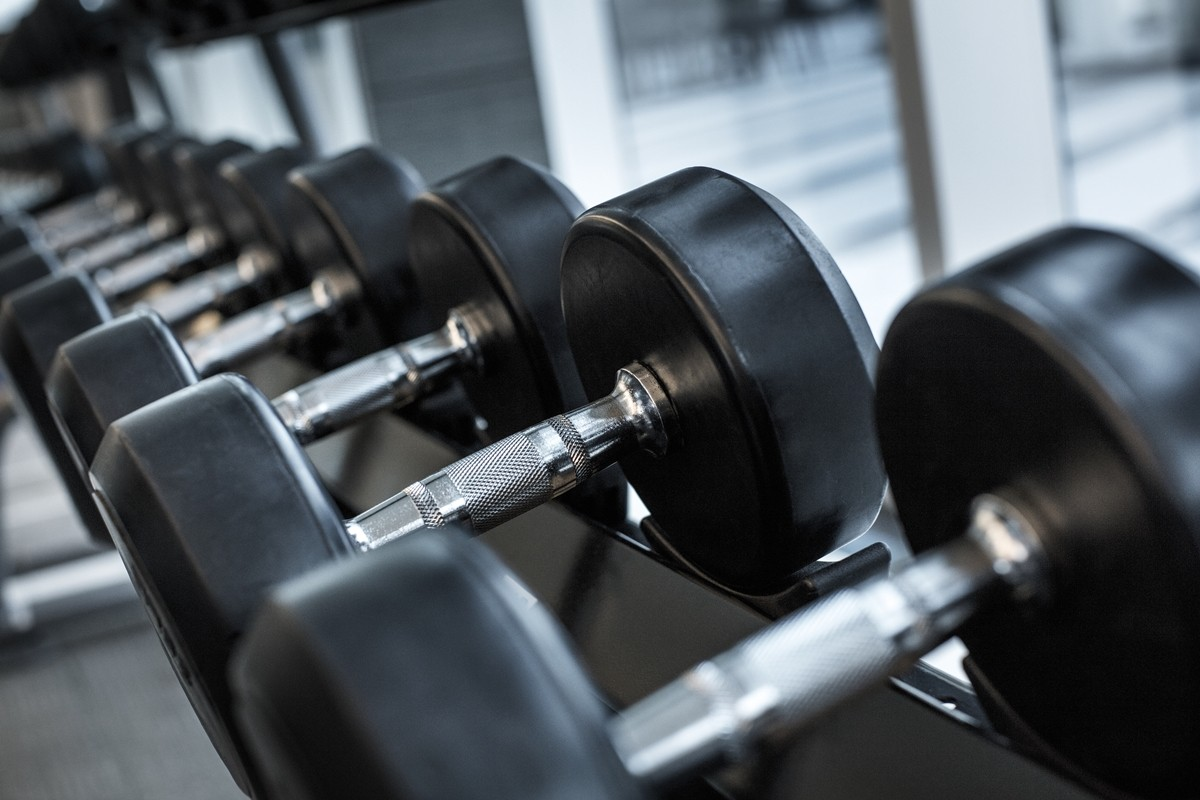
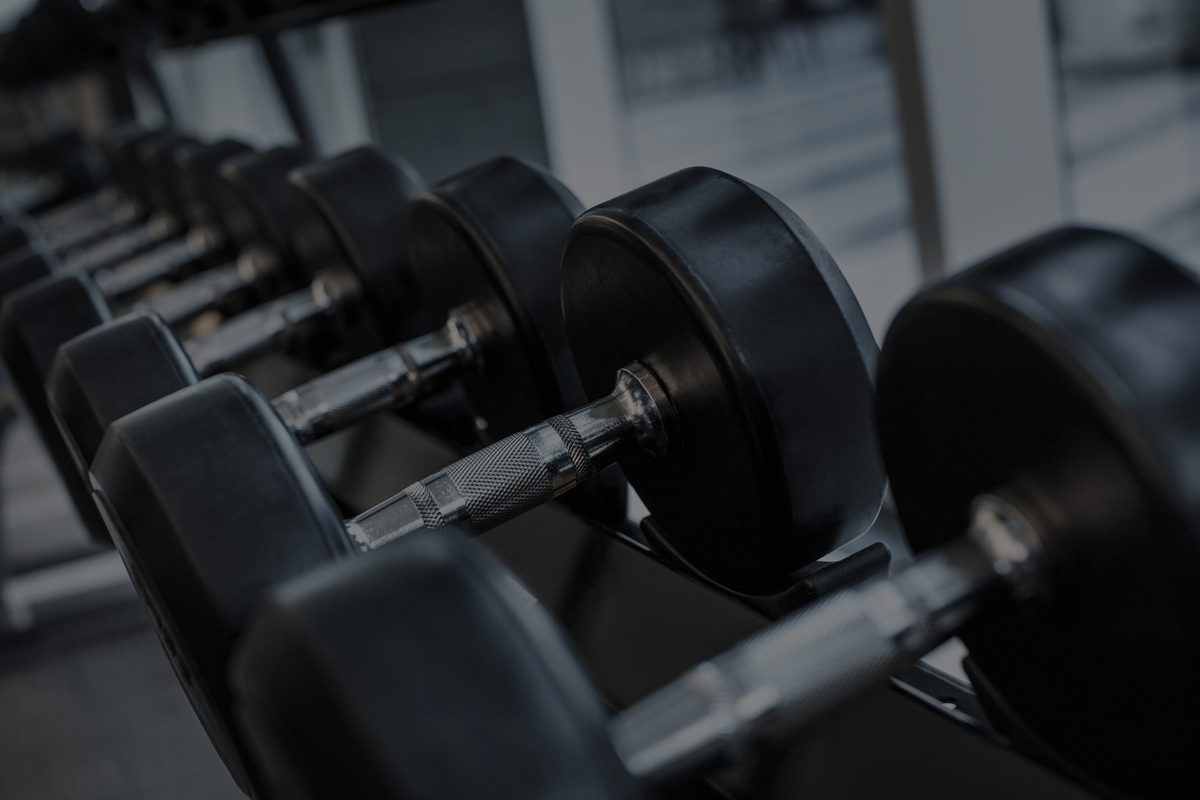
refactoring complete, styling complete

diff --git a/src/Components/Forms/Form.js b/src/Components/Forms/Form.js
@@ -1,5 +1,4 @@
 import React, { useState } from "react";
-import background from "./images/Gym2.png";
 import "./styling.css";
 
 import Stats from "./Stats";
@@ -63,146 +62,126 @@ const Form = () => {
   };
 
   return (
-    <div style={styles.header}>
-      <div style={styles.content}>
-        <div className="container mx-auto px-6 py-32 md:px-32 lg:px-32 xl:px-32">
-          {/* Header */}
-          <label
-            style={{ color: "hsl(0, 0%, 88%)" }}
-            className="font-display font-sans font-semibold text-5xl text-white mb-4"
-          >
-            TDEE Calculator
-          </label>
+    <div className="container mx-auto px-6 py-32 md:px-32 lg:px-32 xl:px-32">
+      {/* Header */}
+      <label
+        style={{ color: "hsl(0, 0%, 88%)" }}
+        className="font-display font-sans font-semibold text-5xl text-white mb-4"
+      >
+        TDEE Calculator
+      </label>
 
-          {/* Show Form */}
-          {!showResults ? (
-            <div
-              style={{
-                borderTopWidth: 4,
-                borderTopColor: "hsl(122, 47%, 35%)",
-                backgroundColor: "hsl(0, 0%, 88%)"
-              }}
-              className="flex-column mt-3 shadow-md rounded-lg bg-grey opacity-100 h-full"
-            >
-              <div className="w-full block flex-grow px-5 pt-5 pb-2">
-                {/* Formula Options */}
-                <div className="flex radio-toolbar">
-                  <input
-                    id="mifflin"
-                    type="radio"
-                    value="mifflin"
-                    checked={changeFormula === false}
-                    onChange={() => handleFormulaChange()}
-                  />
-                  <label required htmlFor="mifflin">
-                    Mifflin St. Jeor
-                  </label>
-                  <input
-                    id="katch"
-                    type="radio"
-                    value="katch"
-                    checked={changeFormula === true}
-                    onChange={() => handleFormulaChange()}
-                  />
-                  <label required htmlFor="katch">
-                    Katch-McArdle
-                  </label>
-                </div>
-              </div>
-
-              {/* Show settings */}
-              <Settings
-                gender={gender}
-                unit={unit}
-                weightGoal={weightGoal}
-                handleGenderChange={event => handleGenderChange(event)}
-                handleUnitChange={event => handleUnitChange(event)}
-                handleWeightGoalChange={event => handleWeightGoalChange(event)}
+      {/* Show Form */}
+      {!showResults ? (
+        <div
+          style={{
+            borderTopWidth: 4,
+            borderTopColor: "hsl(122, 47%, 35%)",
+            backgroundColor: "hsl(0, 0%, 88%)"
+          }}
+          className="flex-column mt-3 shadow-md rounded-lg bg-grey opacity-100 h-full"
+        >
+          <div className="w-full block flex-grow px-5 pt-5 pb-2">
+            {/* Formula Options */}
+            <div className="flex radio-toolbar">
+              <input
+                id="mifflin"
+                type="radio"
+                value="mifflin"
+                checked={changeFormula === false}
+                onChange={() => handleFormulaChange()}
               />
-
-              {/* Show stats */}
-              <Stats
-                weight={weight}
-                setWeight={setWeight}
-                imperialWeight={imperialWeight}
-                setImperialWeight={setImperialWeight}
-                height={height}
-                setHeight={setHeight}
-                feet={feet}
-                setFeet={setFeet}
-                inches={inches}
-                setInches={setInches}
-                age={age}
-                setAge={setAge}
-                bodyFat={bodyFat}
-                setBodyFat={setBodyFat}
-                weightPlan={weightPlan}
-                setWeightPlan={setWeightPlan}
-                activityLevel={activityLevel}
-                setActivityLevel={setActivityLevel}
-                macro={macro}
-                setMacro={setMacro}
-                showResults={showResults}
-                setShowResults={setShowResults}
-                formula={changeFormula}
-                gender={gender}
-                unit={unit}
-                weightGoal={weightGoal}
+              <label required htmlFor="mifflin">
+                Mifflin St. Jeor
+              </label>
+              <input
+                id="katch"
+                type="radio"
+                value="katch"
+                checked={changeFormula === true}
+                onChange={() => handleFormulaChange()}
               />
+              <label required htmlFor="katch">
+                Katch-McArdle
+              </label>
             </div>
-          ) : (
-            <div
-              style={{
-                borderTopWidth: 4,
-                borderTopColor: "hsl(122, 47%, 35%)",
-                backgroundColor: "hsl(0, 0%, 88%)"
-              }}
-              className="flex-column mt-3 shadow-md rounded-lg bg-grey opacity-100 h-full"
-            >
-              {/* Calculate and show results */}
-              <Calculate
-                formula={changeFormula}
-                gender={gender}
-                weight={imperialWeight || weight}
-                height={height}
-                age={age}
-                bodyFat={bodyFat}
-                activityLevel={activityLevel}
-                weightGoal={weightGoal}
-                weightPlan={weightPlan}
-                macro={macro}
-              />
-              <Button
-                style={{
-                  color: "hsl(0, 0%, 92%)",
-                  backgroundColor: "hsl(122, 39%, 41%)"
-                }}
-                className="w-full font-sans font-medium py-5 px-2 rounded-b-lg focus:outline-none"
-                handleClick={() => handleClick()}
-                title={"Back"}
-              />
-            </div>
-          )}
+          </div>
+
+          {/* Show settings */}
+          <Settings
+            gender={gender}
+            unit={unit}
+            weightGoal={weightGoal}
+            handleGenderChange={event => handleGenderChange(event)}
+            handleUnitChange={event => handleUnitChange(event)}
+            handleWeightGoalChange={event => handleWeightGoalChange(event)}
+          />
+
+          {/* Show stats */}
+          <Stats
+            weight={weight}
+            setWeight={setWeight}
+            imperialWeight={imperialWeight}
+            setImperialWeight={setImperialWeight}
+            height={height}
+            setHeight={setHeight}
+            feet={feet}
+            setFeet={setFeet}
+            inches={inches}
+            setInches={setInches}
+            age={age}
+            setAge={setAge}
+            bodyFat={bodyFat}
+            setBodyFat={setBodyFat}
+            weightPlan={weightPlan}
+            setWeightPlan={setWeightPlan}
+            activityLevel={activityLevel}
+            setActivityLevel={setActivityLevel}
+            macro={macro}
+            setMacro={setMacro}
+            showResults={showResults}
+            setShowResults={setShowResults}
+            formula={changeFormula}
+            gender={gender}
+            unit={unit}
+            weightGoal={weightGoal}
+          />
         </div>
-      </div>
+      ) : (
+        <div
+          style={{
+            borderTopWidth: 4,
+            borderTopColor: "hsl(122, 47%, 35%)",
+            backgroundColor: "hsl(0, 0%, 88%)"
+          }}
+          className="flex-column mt-3 shadow-md rounded-lg bg-grey opacity-100 h-full"
+        >
+          {/* Calculate and show results */}
+          <Calculate
+            formula={changeFormula}
+            gender={gender}
+            weight={imperialWeight || weight}
+            height={height}
+            age={age}
+            bodyFat={bodyFat}
+            activityLevel={activityLevel}
+            weightGoal={weightGoal}
+            weightPlan={weightPlan}
+            macro={macro}
+          />
+          <Button
+            style={{
+              color: "hsl(0, 0%, 92%)",
+              backgroundColor: "hsl(122, 39%, 41%)"
+            }}
+            className="w-full font-sans font-medium py-5 px-2 rounded-b-lg focus:outline-none"
+            handleClick={() => handleClick()}
+            title={"Back"}
+          />
+        </div>
+      )}
     </div>
   );
-};
-
-const styles = {
-  header: {
-    backgroundImage: `url(${background})`,
-    height: "100vh",
-    backgroundPosition: "center",
-    backgroundRepeat: "no-repeat",
-    backgroundSize: "cover"
-  },
-
-  content: {
-    height: "100%",
-    width: "100%",
-    backgroundColor: "rgba(0, 0, 0, 0.5)"
-  }
 };
 
 export default Form;

diff --git a/src/index.css b/src/index.css
@@ -13,7 +13,12 @@ html {
   line-height: 1.15; /* 1 */
   -webkit-text-size-adjust: 100%; /* 2 */
   margin: 0;
-  height: 100%;
+  max-height: 100vh;
+  overflow: auto;
+  background-image: url("./Components/Forms/images/Gym2.png");
+  background-repeat: no-repeat;
+  background-attachment: fixed;
+  background-size: cover;
 }
 
 /* Sections
